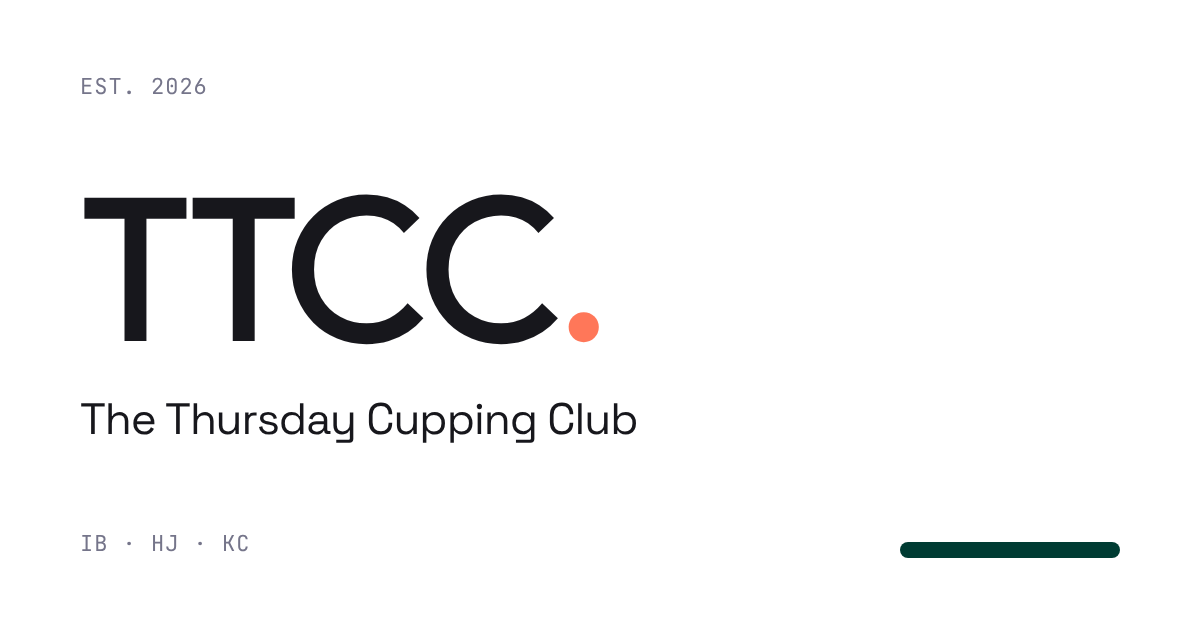
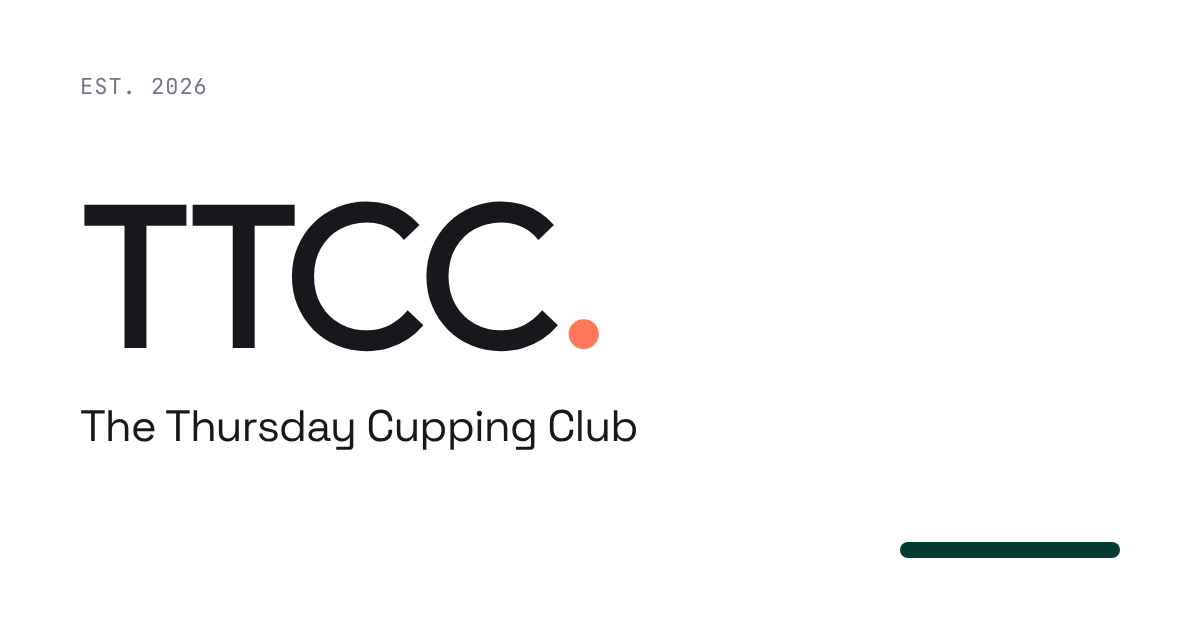
Share image: drop member initials; bump og:image cache version
Claude-Session: https://claude.ai/code/session_017ZSeCDGD7moxPT9fvgM6ve

diff --git a/index.html b/index.html
@@ -9,7 +9,7 @@
 <meta property="og:description" content="이번 DROP 별점 남기러 가기">
 <meta property="og:type" content="website">
 <meta property="og:url" content="https://ttcc.inbeom.com/">
-<meta property="og:image" content="https://ttcc.inbeom.com/share.png?v=2">
+<meta property="og:image" content="https://ttcc.inbeom.com/share.png?v=3">
 <meta property="og:image:width" content="1200">
 <meta property="og:image:height" content="630">
 <meta name="twitter:card" content="summary_large_image">
